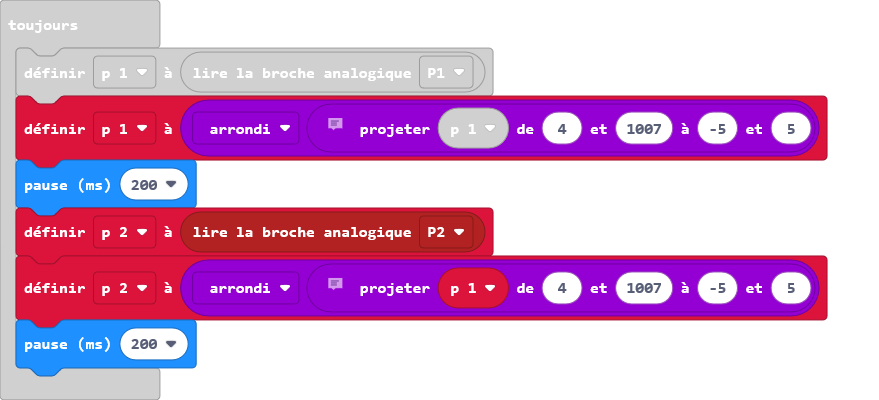
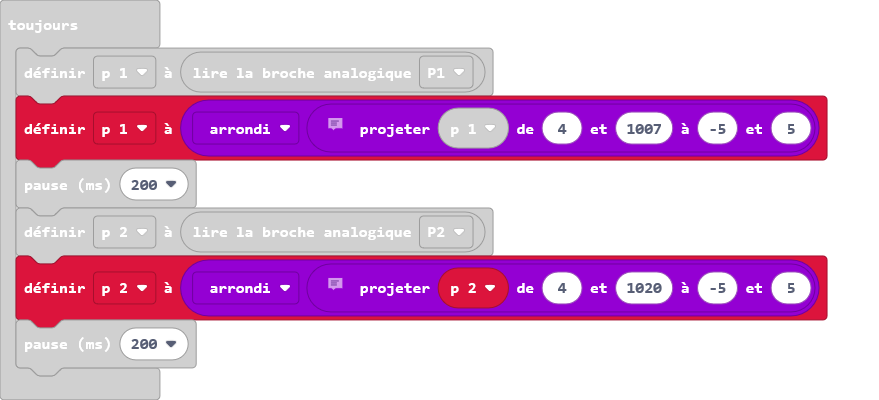
Mise à jour main.blocks, main.ts

Changed region(s): [[0.0, 0.39, 0.5836, 0.66], [0.0, 0.78, 0.2457, 0.96], [0.7372, 0.69, 0.7679, 0.75]]

diff --git a/main.ts b/main.ts
@@ -9,6 +9,6 @@ basic.forever(function () {
     p_2 = pins.analogReadPin(AnalogPin.P2)
     // mal traduit
     // 
-    p_2 = Math.round(Math.map(p_1, 4, 1007, -5, 5))
+    p_2 = Math.round(Math.map(p_2, 4, 1020, -5, 5))
     basic.pause(200)
 })
